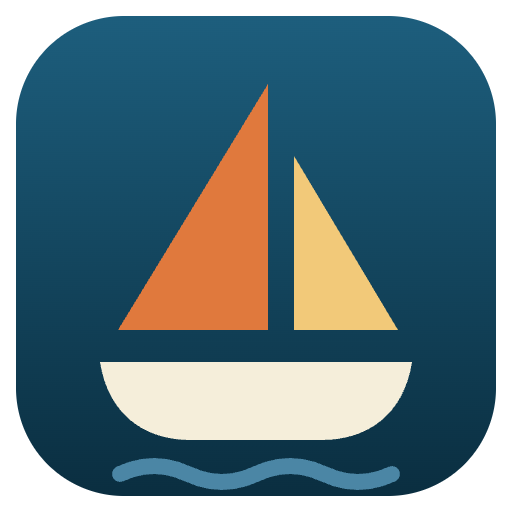
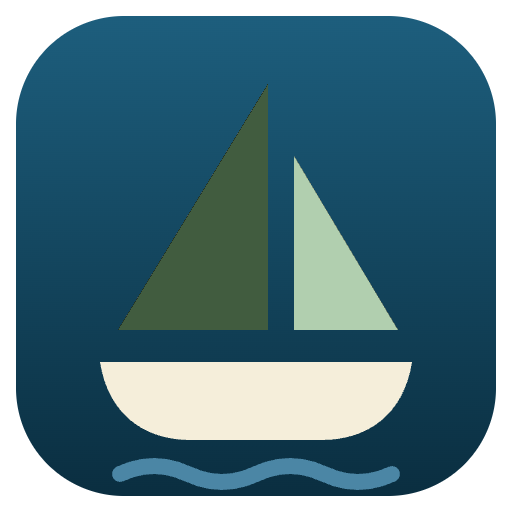
color change

Changed region(s): [[0.2188, 0.1562, 0.5312, 0.6562], [0.5625, 0.3125, 0.7812, 0.6562]]

diff --git a/app/globals.css b/app/globals.css
@@ -5,13 +5,13 @@
     --sand: #f5eeda;
     --sand-dark: #e9dfc2;
     --cream: #fbf7ec;
-    --sunset: #e0793d;
-    --sunset-dark: #c56328;
+    --forest: #415c3f;
+    --forest-dark: #2f422d;
     --ink: #22303a;
     --ink-soft: #55636e;
     --white: #ffffff;
-    --hero-gold: #f2c979;
-    --hero-honey: #f7e6bd;
+    --leaf: #b1cfaf;
+    --leaf-soft: #d9ead7;
 }
 
 * { margin: 0; padding: 0; box-sizing: border-box; }
@@ -27,7 +27,7 @@ body {
 
 img { max-width: 100%; display: block; }
 
-a { color: var(--sunset-dark); text-decoration: none; }
+a { color: var(--forest-dark); text-decoration: none; }
 
 .container { max-width: 1080px; margin: 0 auto; padding: 0 20px; }
 
@@ -56,7 +56,7 @@ a { color: var(--sunset-dark); text-decoration: none; }
     color: var(--water);
 }
 
-.nav-logo span { color: var(--sunset); }
+.nav-logo span { color: var(--forest); }
 
 .nav-links {
     display: flex;
@@ -68,17 +68,17 @@ a { color: var(--sunset-dark); text-decoration: none; }
 
 .nav-links a { color: var(--ink-soft); }
 
-.nav-links a:hover { color: var(--sunset-dark); }
+.nav-links a:hover { color: var(--forest-dark); }
 
 .nav-phone {
-    background: var(--sunset);
+    background: var(--forest);
     color: var(--white) !important;
     padding: 8px 16px;
     border-radius: 999px;
     font-weight: 700;
 }
 
-.nav-phone:hover { background: var(--sunset-dark); }
+.nav-phone:hover { background: var(--forest-dark); }
 
 @media (max-width: 760px) {
     /* kompakt kétsoros nav: felül logó + telefon, alul a szekciólinkek */
@@ -150,18 +150,18 @@ a { color: var(--sunset-dark); text-decoration: none; }
     letter-spacing: 0.08em;
 }
 
-.hero h1 span { color: var(--sunset); }
+.hero h1 span { color: var(--leaf); }
 
 .hero .tagline {
     font-size: clamp(1.1rem, 3vw, 1.5rem);
-    color: var(--hero-honey);
+    color: var(--leaf-soft);
     margin-top: 8px;
 }
 
 .hero .sub {
     max-width: 560px;
     margin: 18px auto 0;
-    color: var(--hero-honey);
+    color: var(--leaf-soft);
 }
 
 .hero-cta {
@@ -187,18 +187,18 @@ a { color: var(--sunset-dark); text-decoration: none; }
 
 .btn:hover { transform: translateY(-2px); }
 
-.btn-primary { background: var(--sunset); color: var(--white); }
+.btn-primary { background: var(--forest); color: var(--white); }
 
-.btn-ghost { border: 2px solid rgba(242, 201, 121, 0.75); color: var(--hero-gold); }
+.btn-ghost { border: 2px solid rgba(177, 207, 175, 0.75); color: var(--leaf); }
 
 .hero-badge {
     display: inline-block;
     background: rgba(10, 46, 64, 0.55);
-    border: 1px solid rgba(242, 201, 121, 0.35);
+    border: 1px solid rgba(177, 207, 175, 0.35);
     border-radius: 12px;
     padding: 10px 18px;
     font-size: 0.95rem;
-    color: var(--hero-honey);
+    color: var(--leaf-soft);
     margin-bottom: 40px;
     backdrop-filter: blur(6px);
 }
@@ -260,7 +260,7 @@ section[id] { scroll-margin-top: 64px; }
     padding-top: 12px;
     border-top: 1px solid var(--sand-dark);
     font-weight: 800;
-    color: var(--sunset-dark);
+    color: var(--forest-dark);
 }
 
 .price-notes {
@@ -298,7 +298,7 @@ section[id] { scroll-margin-top: 64px; }
     width: 44px;
     height: 44px;
     border-radius: 50%;
-    background: var(--sunset);
+    background: var(--forest);
     color: var(--white);
     font-weight: 800;
     font-size: 1.2rem;
@@ -325,7 +325,7 @@ section[id] { scroll-margin-top: 64px; }
     margin-top: 40px;
 }
 
-.stat h3 { font-size: 2.6rem; color: var(--sunset); }
+.stat h3 { font-size: 2.6rem; color: var(--leaf); }
 
 .stat p { opacity: 0.85; }
 